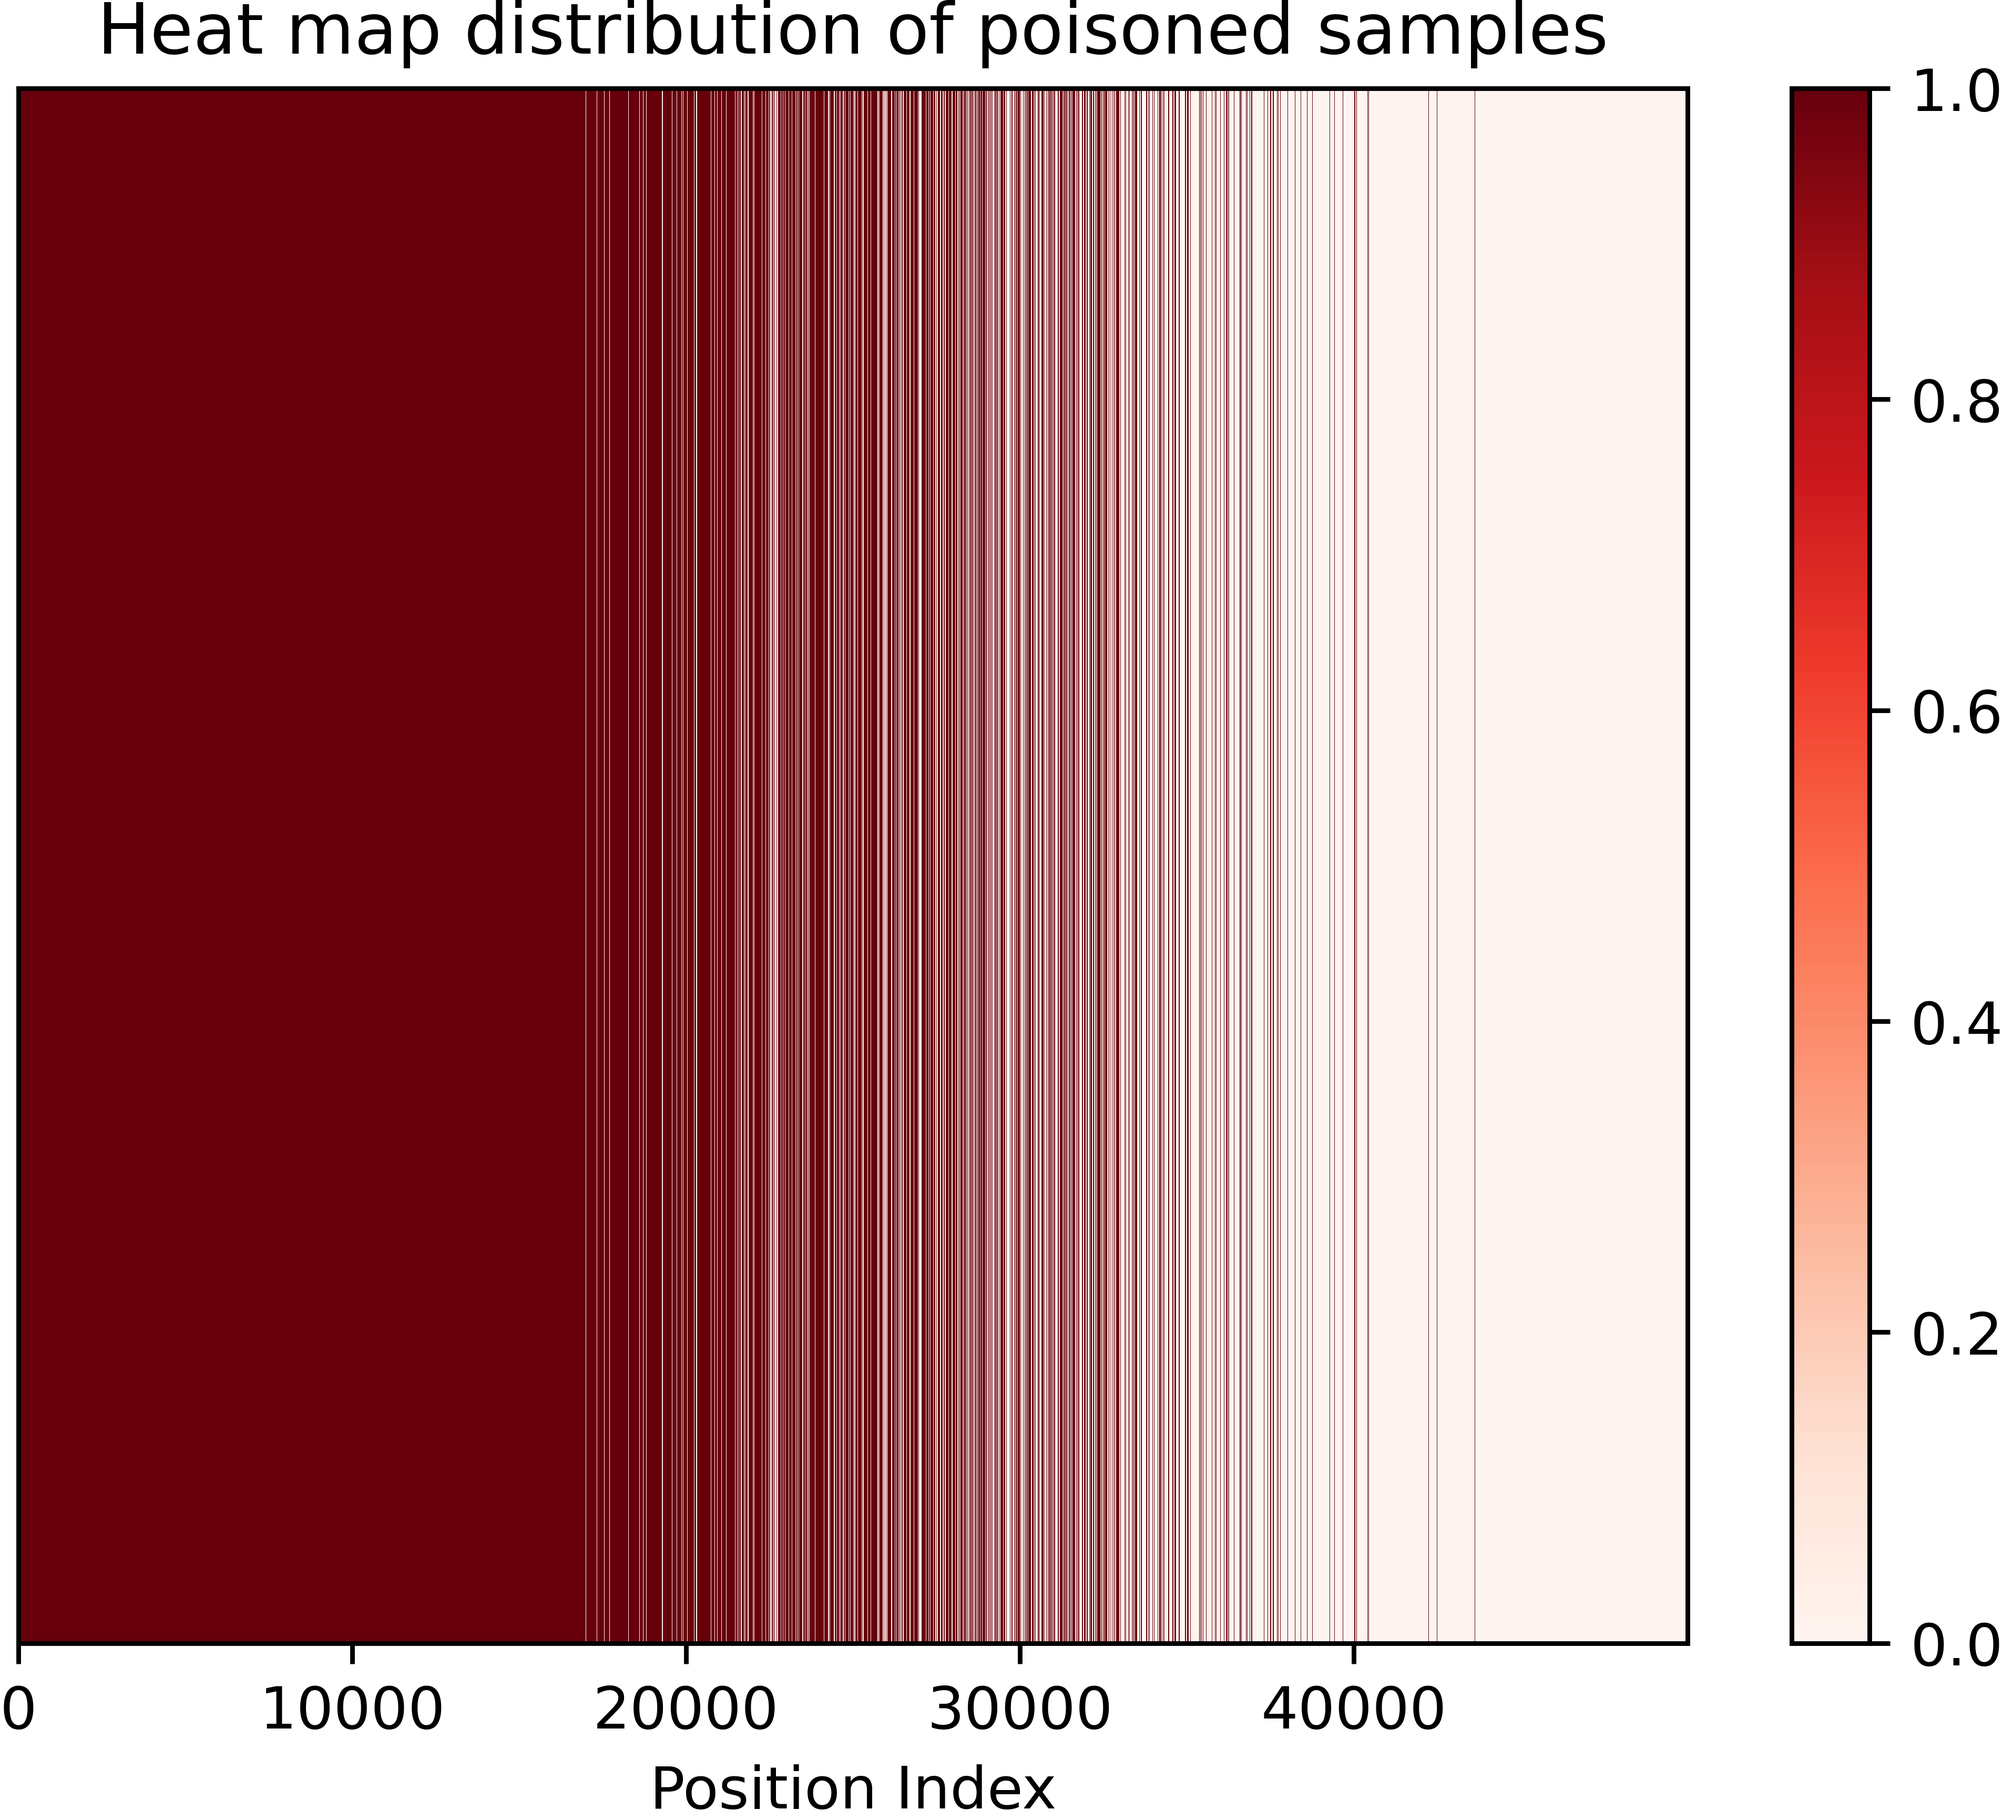
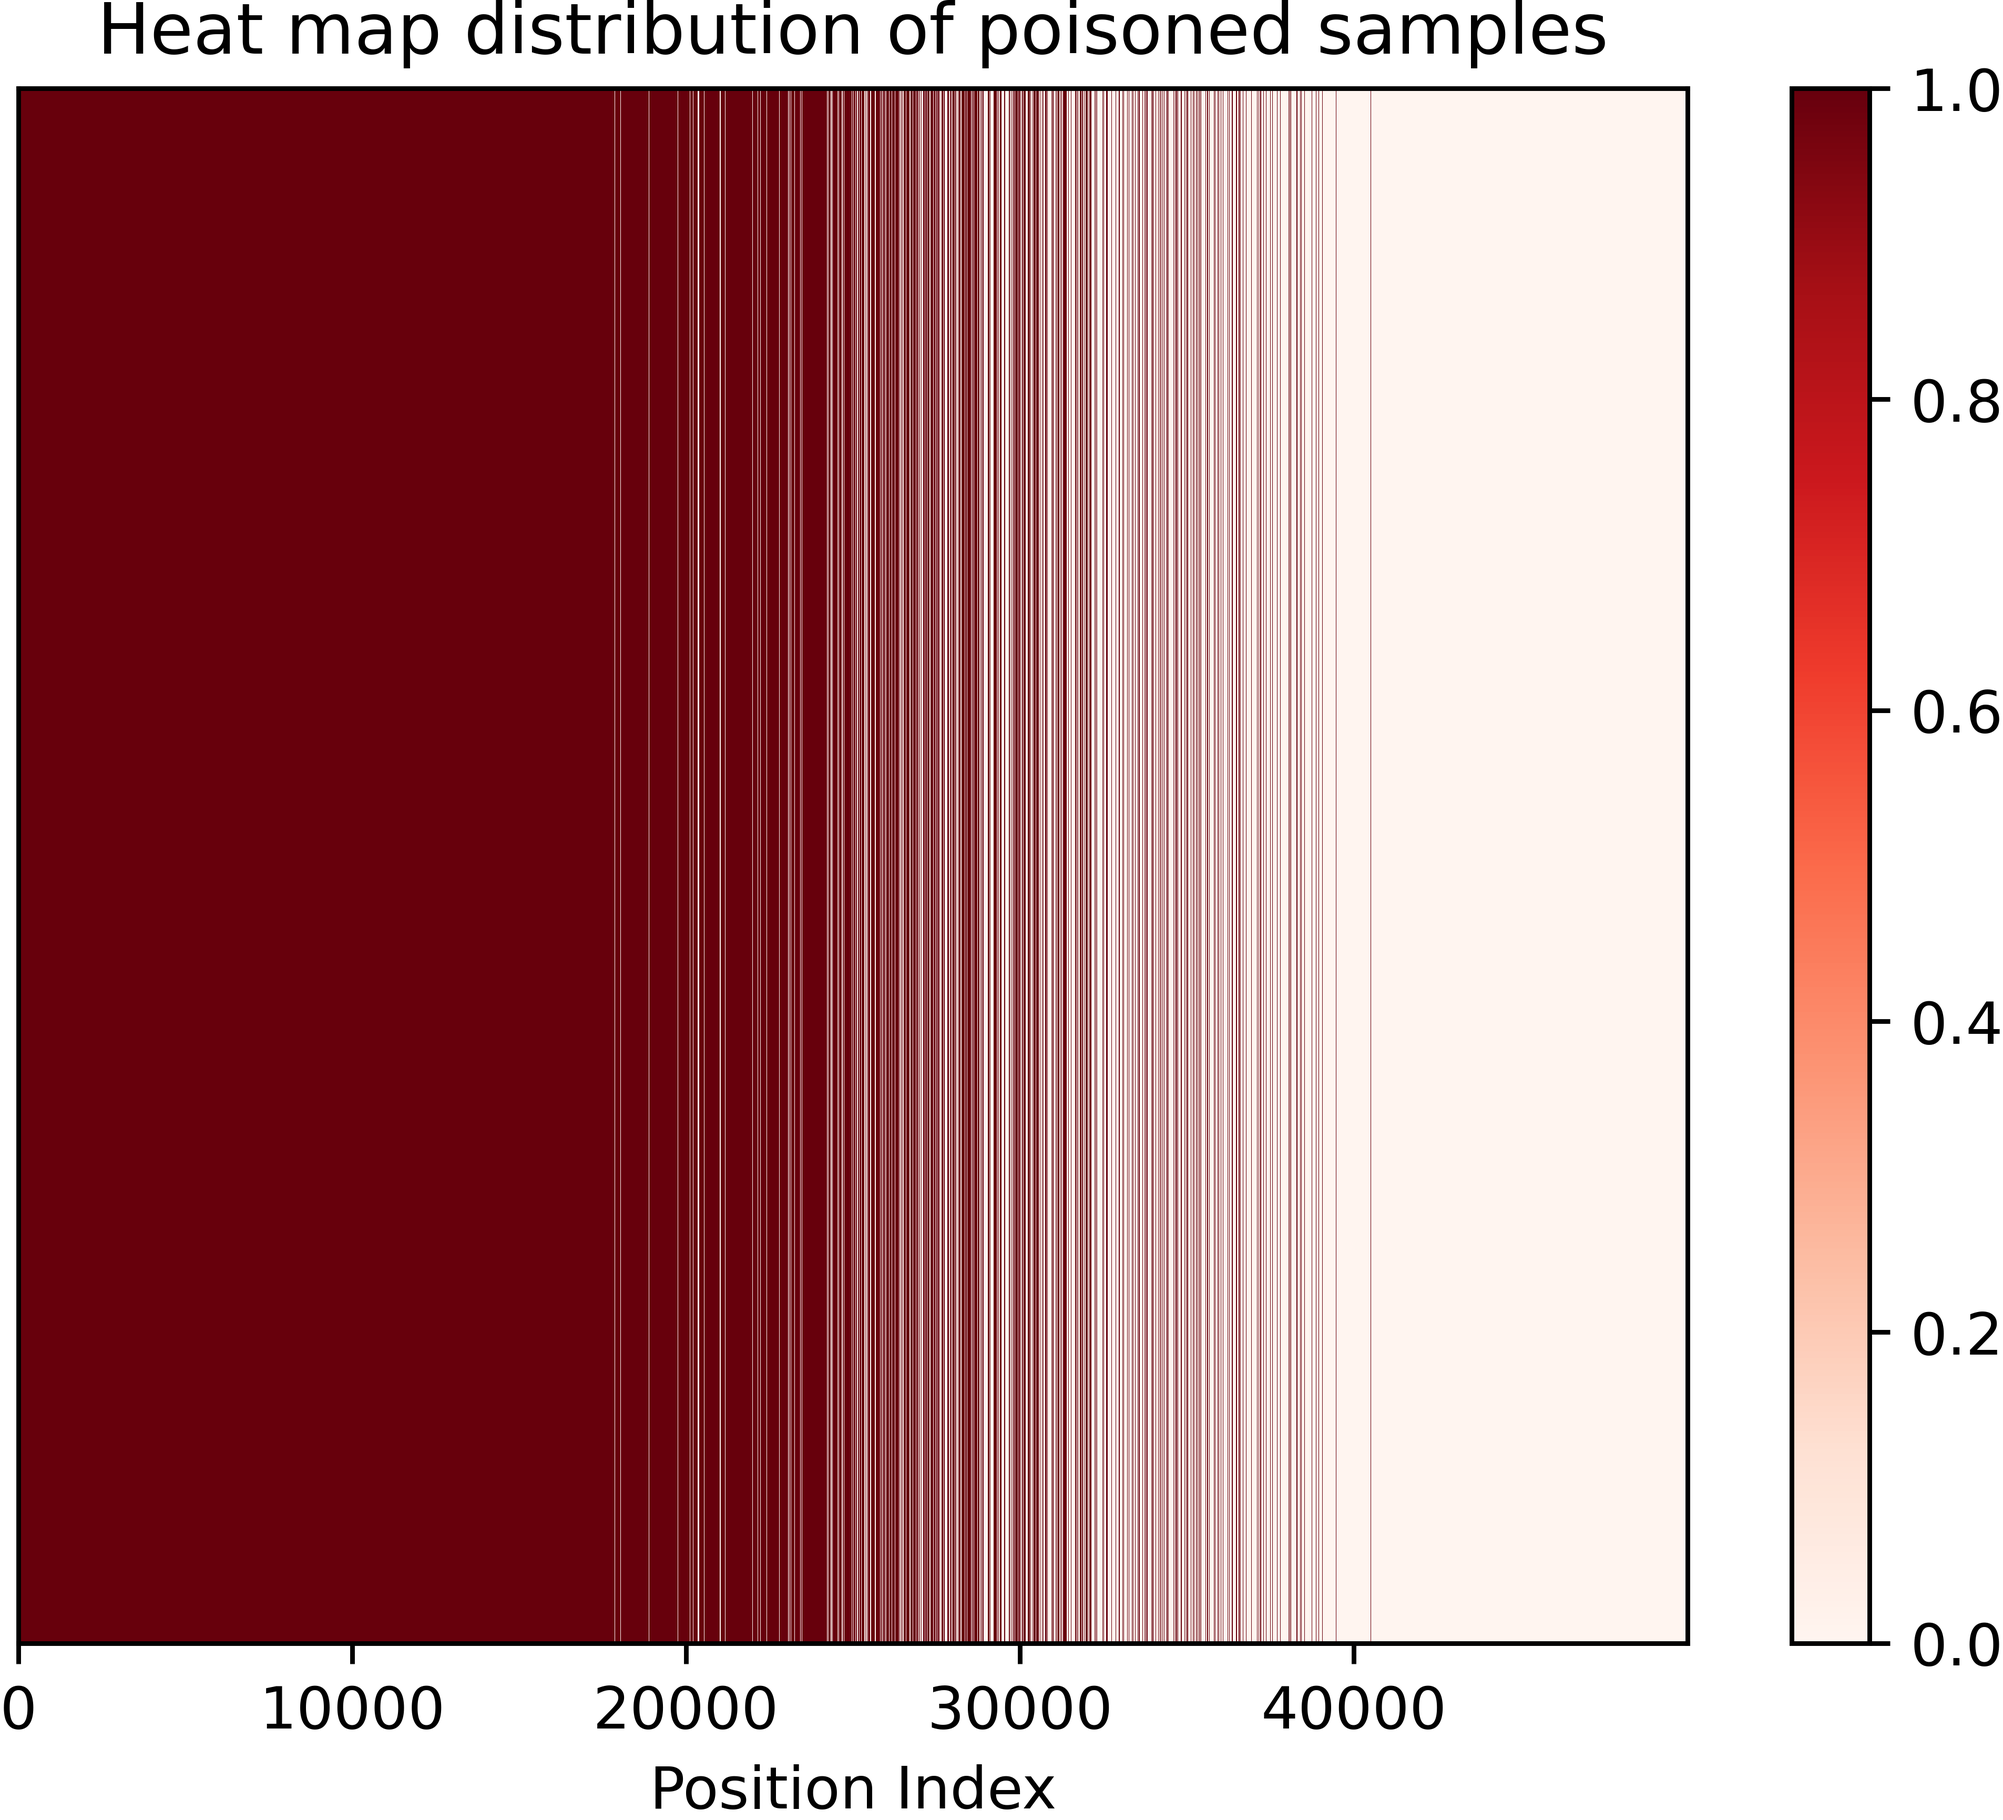
go

Changed region(s): [[0.3123, 0.0312, 0.6871, 0.9049]]

diff --git a/codes/ourMethod/retrain.py b/codes/ourMethod/retrain.py
@@ -920,11 +920,11 @@ def our_ft_2(
     #     best_BD_model,device,seedSet,poisoned_trainset, poisoned_ids, poisoned_evalset_loader,
     #     num_epoch=30, lr=1e-3, batch_size=64, logger=logger)
     
-    # logger.info("trainWithSemi")
-    # # best_BD_model = unfreeze(best_BD_model)
-    # best_defense_model,last_defense_model = train_with_semi(
-    #     best_BD_model,device,seedSet,seed_sample_id_list, poisoned_trainset, poisoned_ids, poisoned_evalset_loader,
-    #     class_num, num_epoch=50, lr=1e-3, batch_size=128, logger=logger)
+    logger.info("trainWithSemi")
+    # best_BD_model = unfreeze(best_BD_model)
+    best_defense_model,last_defense_model = train_with_semi(
+        best_BD_model,device,seedSet,seed_sample_id_list, poisoned_trainset, poisoned_ids, poisoned_evalset_loader,
+        class_num, num_epoch=50, lr=1e-3, batch_size=128, logger=logger)
 
     '''5:评估我们防御后的的ASR和ACC'''
     asr, acc = eval_asr_acc(best_defense_model,filtered_poisoned_testset,clean_testset,device)
